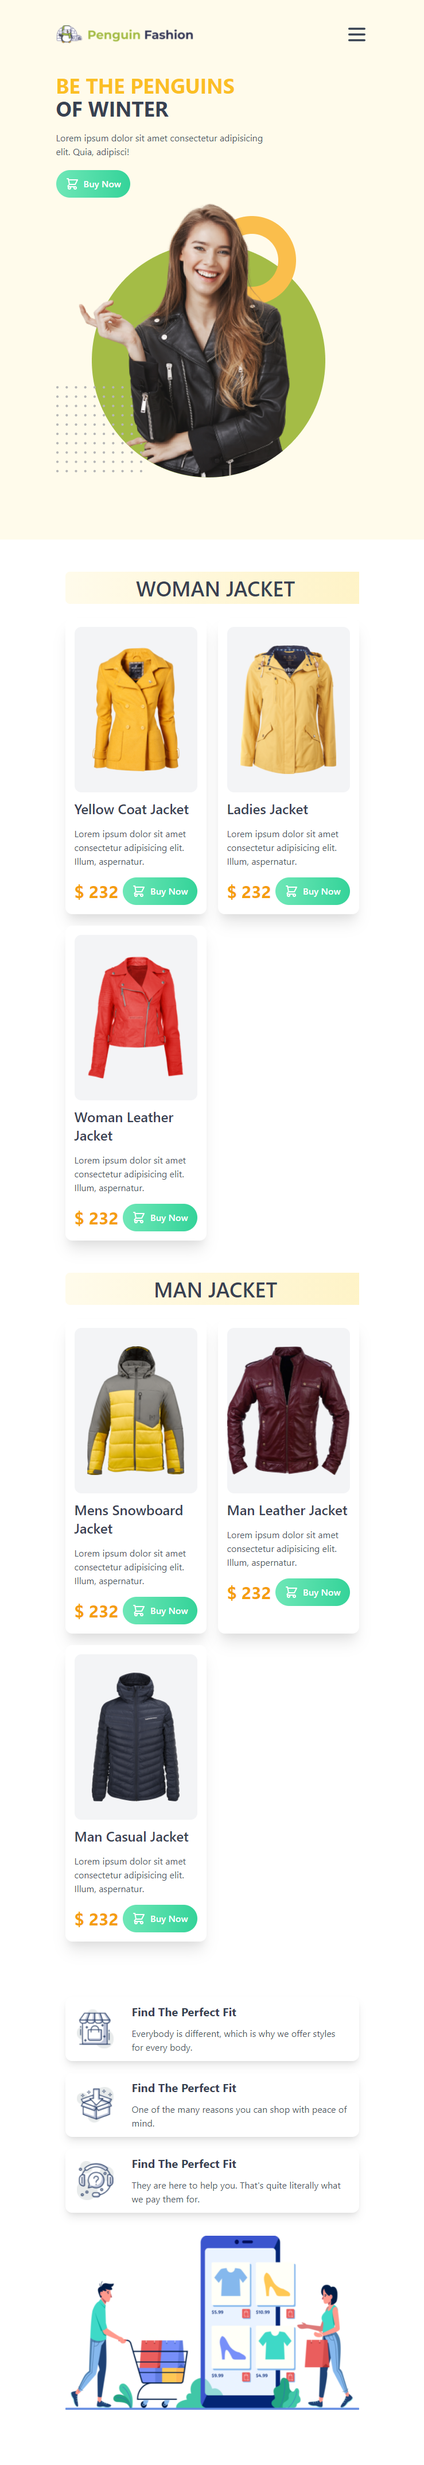
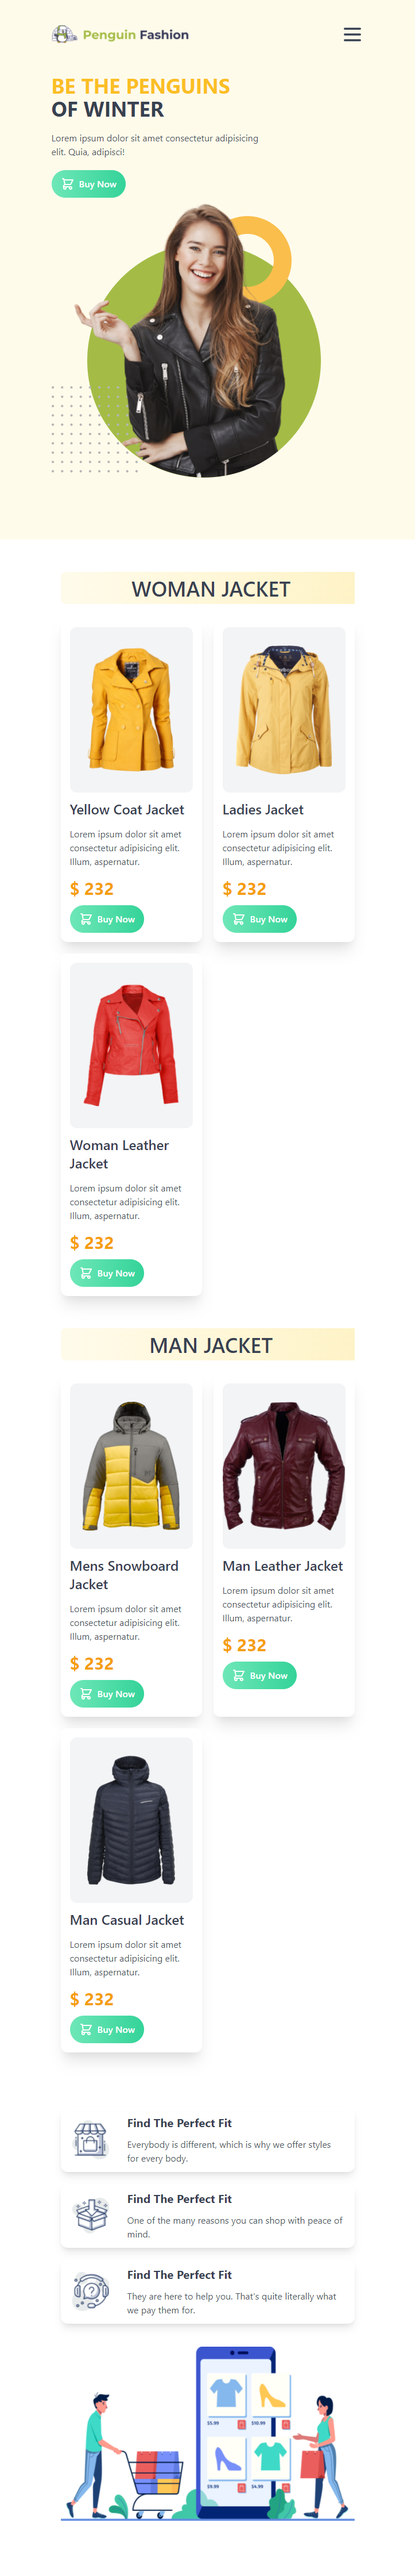
minor changes

diff --git a/index.html b/index.html
@@ -71,7 +71,7 @@
                         <h4 class="text-2xl font-semibold text-gray-700 capitalize">yellow coat jacket</h4>
                         <p class="text-gray-600">Lorem ipsum dolor sit amet consectetur adipisicing elit. Illum,
                             aspernatur.</p>
-                        <div class="flex justify-between items-center">
+                        <div class="md:flex space-y-3 justify-between items-center">
                             <span class="text-yellow-500 font-bold text-3xl">$ 232</span>
                             <button
                                 class="flex bg-gradient-to-r from-green-300 to-green-400 hover:from-green-400 to-green-300 py-3 px-4 rounded-full text-white font-semibold"><svg
@@ -92,7 +92,7 @@
                         <h4 class="text-2xl font-semibold text-gray-700 capitalize">ladies jacket</h4>
                         <p class="text-gray-600">Lorem ipsum dolor sit amet consectetur adipisicing elit. Illum,
                             aspernatur.</p>
-                        <div class="flex justify-between items-center">
+                        <div class="md:flex space-y-3 justify-between items-center">
                             <span class="text-yellow-500 font-bold text-3xl">$ 232</span>
                             <button
                                 class="flex bg-gradient-to-r from-green-300 to-green-400 hover:from-green-400 to-green-300 py-3 px-4 rounded-full text-white font-semibold"><svg
@@ -113,7 +113,7 @@
                         <h4 class="text-2xl font-semibold text-gray-700 capitalize">woman leather jacket</h4>
                         <p class="text-gray-600">Lorem ipsum dolor sit amet consectetur adipisicing elit. Illum,
                             aspernatur.</p>
-                        <div class="flex justify-between items-center">
+                        <div class="md:flex space-y-3 justify-between items-center">
                             <span class="text-yellow-500 font-bold text-3xl">$ 232</span>
                             <button
                                 class="flex bg-gradient-to-r from-green-300 to-green-400 hover:from-green-400 to-green-300 py-3 px-4 rounded-full text-white font-semibold"><svg
@@ -142,7 +142,7 @@
                         <h4 class="text-2xl font-semibold text-gray-700 capitalize">mens snowboard jacket</h4>
                         <p class="text-gray-600">Lorem ipsum dolor sit amet consectetur adipisicing elit. Illum,
                             aspernatur.</p>
-                        <div class="flex justify-between items-center">
+                        <div class="md:flex space-y-3 justify-between items-center">
                             <span class="text-yellow-500 font-bold text-3xl">$ 232</span>
                             <button
                                 class="flex bg-gradient-to-r from-green-300 to-green-400 hover:from-green-400 to-green-300 py-3 px-4 rounded-full text-white font-semibold"><svg
@@ -163,7 +163,7 @@
                         <h4 class="text-2xl font-semibold text-gray-700 capitalize">man leather jacket</h4>
                         <p class="text-gray-600">Lorem ipsum dolor sit amet consectetur adipisicing elit. Illum,
                             aspernatur.</p>
-                        <div class="flex justify-between items-center">
+                        <div class="md:flex space-y-3 justify-between items-center">
                             <span class="text-yellow-500 font-bold text-3xl">$ 232</span>
                             <button
                                 class="flex bg-gradient-to-r from-green-300 to-green-400 hover:from-green-400 to-green-300 py-3 px-4 rounded-full text-white font-semibold"><svg
@@ -184,7 +184,7 @@
                         <h4 class="text-2xl font-semibold text-gray-700 capitalize">man casual jacket</h4>
                         <p class="text-gray-600">Lorem ipsum dolor sit amet consectetur adipisicing elit. Illum,
                             aspernatur.</p>
-                        <div class="flex justify-between items-center">
+                        <div class="md:flex space-y-3 justify-between items-center">
                             <span class="text-yellow-500 font-bold text-3xl">$ 232</span>
                             <button
                                 class="flex bg-gradient-to-r from-green-300 to-green-400 hover:from-green-400 to-green-300 py-3 px-4 rounded-full text-white font-semibold"><svg
@@ -202,24 +202,24 @@
         <!-- customer support  -->
         <section class="container mx-auto px-16 lg:px-20 my-24 md:flex justify-between items-center space-y-10">
             <div class="md:w-5/12">
-                <div class="flex items-center justify-between mb-5 py-3 px-5 shadow-lg rounded-xl">
-                    <img src="images/icons/icon-1.png" alt="" class="w-16 mr-8">
+                <div class="sm:flex items-center justify-between mb-5 py-3 px-5 shadow-lg rounded-xl">
+                    <img src="images/icons/icon-1.png" alt="" class="w-16 sm:mr-8 mx-auto ">
                     <div class="space-y-3">
                         <h3 class="capitalize font-bold text-xl text-gray-700">find the perfect fit</h3>
                         <p class="text-gray-600">Everybody is different, which is why we
                             offer styles for every body.</p>
                     </div>
                 </div>
-                <div class="flex items-center justify-between mb-5 py-3 px-5 shadow-lg rounded-xl">
-                    <img src="images/icons/icon-2.png" alt="" class="w-16 mr-8">
+                <div class="sm:flex items-center justify-between mb-5 py-3 px-5 shadow-lg rounded-xl">
+                    <img src="images/icons/icon-2.png" alt="" class="w-16 sm:mr-8 mx-auto">
                     <div class="space-y-3">
                         <h3 class="capitalize font-bold text-xl text-gray-700">find the perfect fit</h3>
                         <p class="text-gray-600">One of the many reasons you can shop
                             with peace of mind.</p>
                     </div>
                 </div>
-                <div class="flex items-center justify-between py-3 px-5 shadow-lg rounded-xl ">
-                    <img src="images/icons/icon-3.png" alt="" class="w-16 mr-8">
+                <div class="sm:flex items-center justify-between py-3 px-5 shadow-lg rounded-xl ">
+                    <img src="images/icons/icon-3.png" alt="" class="w-16 sm:mr-8 mx-auto">
                     <div class="space-y-3">
                         <h3 class="capitalize font-bold text-xl text-gray-700">find the perfect fit</h3>
                         <p class="text-gray-600">They are here to help you. That's quite
